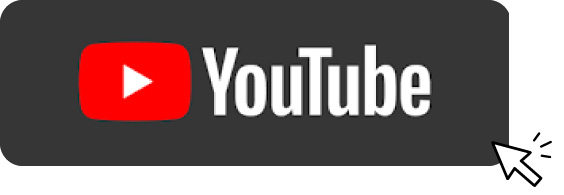
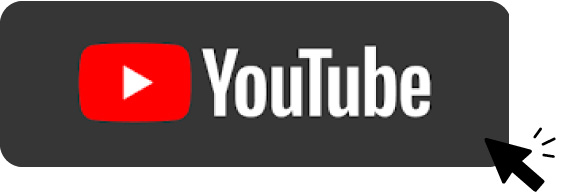
changed images

diff --git a/index.html b/index.html
@@ -34,11 +34,13 @@
                 <img class="top" src="./images/top.jpg" alt="top">
                 <img class="school" src="./images/school.jpg" alt="school">
                 <img class="mensset" src="./images/mensset.jpg" alt="mensset">
-                <img class="dream" src="./images/dream.jpg" alt="dream">
-                <img class="comingsoon" src="./images/comingsoon.jpg" alt="comingsoon">
-                <a href="https://www.youtube.com/channel/UCUjkP4CqGfXiyPquyvq1RTQ">
-                    <img class="youtube" src="./images/youtube.jpg" alt="youtube">
-                </a>
+				<img class="dream" src="./images/dream.jpg" alt="dream">
+				<div class="area">
+					<img class="comingsoon" src="./images/comingsoon.jpg" alt="comingsoon">
+					<a href="https://www.youtube.com/channel/UCUjkP4CqGfXiyPquyvq1RTQ">
+						<img class="youtube" src="./images/youtube.jpg" alt="youtube">
+					</a>
+				</div>
 			</div>
 			<div class="footer">
                 <a href="https://bestar-official.github.io/web-magazine_20200819_vol.1/">

diff --git a/css/index.css b/css/index.css
@@ -44,6 +44,11 @@ a {
     width: 100%;
 }
 
+.area {
+    position: relative;
+    width: 100%;
+}
+
 .comingsoon {
     width: 100%;
 }
@@ -51,6 +56,9 @@ a {
 .youtube {
     width: 70%;
     margin-left: 17.6%;
+    position: absolute;
+    top: 77%;
+    left: 1%
 }
 
 .contents {
